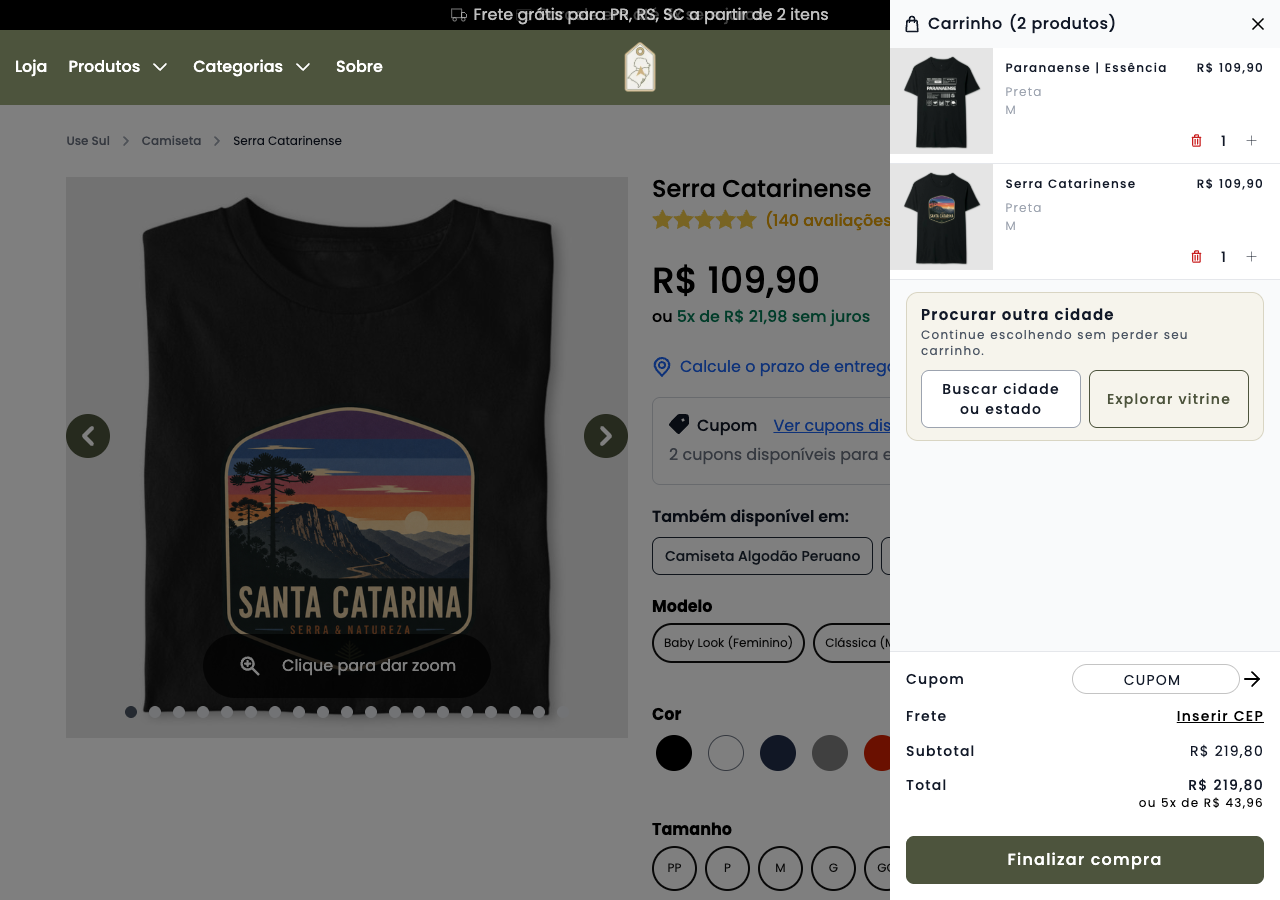
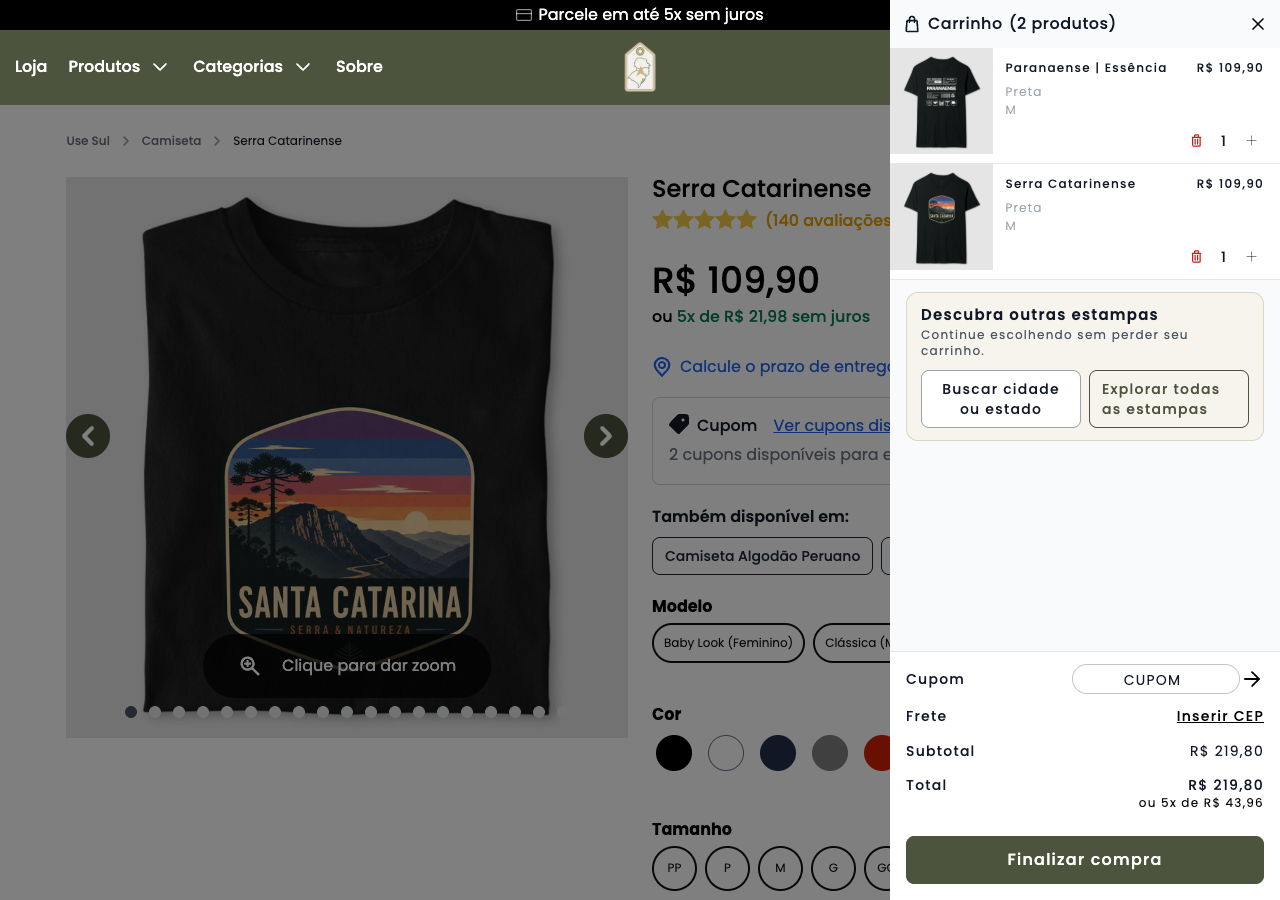
docs(product-discovery): record production rollout and network evidence
Worker 4a3c5d13 (loader 4.2, six features) live on the five pages;
live QA 40/40, real GA4 requests observed on both hosts without
cart_ref or origin markers, and the current rollback commands.

Changed region(s): [[0.3438, 0.0, 0.6562, 0.0311], [0.8438, 0.4044, 0.9688, 0.4667], [0.7188, 0.3422, 0.9062, 0.3733]]

diff --git a/docs/product-discovery.md b/docs/product-discovery.md
@@ -1,6 +1,6 @@
 # Descoberta na página de produto + revisão de comunicação (Fase 6)
 
-Data: 2026-09-24. Estado: **implementado, testado em local (Worker+KV locais, páginas REAIS da INK) e commitado; NÃO publicado.** Produção continua no Worker `81ce3c6f-47f4-408f-a4f3-e168dc99d395` (loader 4.1, cinco features, cinco caminhos). Loader novo: **4.2**. Contexto/eventos anteriores: [`expansao-cinco-produtos-analytics.md`](expansao-cinco-produtos-analytics.md).
+Data: 2026-09-24. Estado: **EM PRODUÇÃO nas cinco páginas** (seção 6). Worker ativo `4a3c5d13-632e-4fed-b6b8-028c0c40595d` (loader **4.2**, seis features, cinco caminhos exatos, `CART_REFS`); storefront `main` com o enum `ink_product_detail`. Versão estável anterior: `5790535f-b7f4-439e-beac-1a8ee257b050` (passo A, bloco desligado) e `81ce3c6f-47f4-408f-a4f3-e168dc99d395` (loader 4.1). Contexto/eventos anteriores: [`expansao-cinco-produtos-analytics.md`](expansao-cinco-produtos-analytics.md).
 
 ## 1. Comunicação (todas as superfícies)
 
@@ -55,7 +55,7 @@ Um evento novo de intenção, INK-side: **`origens_discovery_search_open`** (toq
 Overflow: em 320 (e 390 na 1ª visita) a **própria página da INK** já transborda na horizontal (`overflowWithout: true` com o bloco oculto); o QA compara com e sem o bloco e nenhum overflow é atribuível a ele.
 Capturas: `docs/evidence/product-discovery/` (`produto-*-{1280,390,320}-fechado.png`, `produto-paranaense-{1280,390,320}-busca-aberta.png`) e os drawers com o texto novo em `docs/evidence/expansao-5/drawer-*`.
 
-## 5. Publicação e rollback (a executar com autorização; nada foi publicado)
+## 5. Publicação e rollback (executado; mantido como referência)
 
 Versão estável a preservar no rollback: **`81ce3c6f-47f4-408f-a4f3-e168dc99d395`** (loader 4.1, cinco features, cinco caminhos, `CART_REFS`). Não usar deploy sem `--var` (desliga o piloto).
 
@@ -68,3 +68,15 @@ Versão estável a preservar no rollback: **`81ce3c6f-47f4-408f-a4f3-e168dc99d39
    ```
 3. **Worker, passo B (liga o bloco):** o mesmo comando com `WIDGET_FEATURES:return-link,post-add-discovery,city-search,cart-discovery,cart-mirror,product-discovery`. Health deve listar as seis; `node scripts/qa-expansao.mjs --live` (36 checagens + ida e volta pelo storefront).
 4. **Rollback:** (a) só o bloco: repetir o passo A (tira `product-discovery`, mantém as outras cinco); (b) tudo: `npx wrangler rollback 81ce3c6f-47f4-408f-a4f3-e168dc99d395 --name use-sul-widget -m "rollback fase-6"` (volta também a comunicação antiga). Confirmar health e smoke depois. Nunca rollback para a versão de um produto só.
+
+## 6. Produção (2026-09-24)
+
+**Sequência real:** storefront `12bca55` (PR → `main`, Railway; o bundle publicado passou a conter `ink_product_detail`) → Worker **passo A** `5790535f` (loader 4.2, bloco OFF; smoke: health `4.2`, 5 páginas com 1 loader e link antigo, `PRODUCT = false`, 5 produtos externos reais 200 sem loader, `/usesul`, `/usesul/products` sem loader, checkout 302, busca e `cart-ref` respondendo) → Worker **passo B** `4a3c5d13` (health: `version 4.2`, `allowlist_size 5`, seis features, `features_status ok`).
+
+**QA ao vivo** (`scripts/qa-expansao.mjs --live`, sessão anônima descartável, tags de analytics da INK bloqueadas, sem finalizar pedido): **40/40**. Cinco páginas × 1280/390/320×640 com 1 loader 4.2, seis features, **1 bloco e nenhum link antigo**, CTA/sticky nativos sem cobertura nossa; busca aberta pelo gateway real (≤4 resultados); destino `/sul` com as categorias; jornada de dois produtos, espelho, retorno pelo drawer nativo; 3+ peças com `Finalizar compra` visível em 1280/390/320×640. Capturas: `docs/evidence/product-discovery/live-*`.
+
+**Eventos observados no Network real** (uma visita de teste, `utm_source=qa`, propriedade `G-8GYTEJ1F77`; só o GA4 liberado — GTM, Meta, TikTok, Ads e New Relic bloqueados; cookies aceitos na INK e consentimento aceito no storefront): na INK `origens_discovery_search_open` e `origens_explore_storefront_click` (ambos `entry_point=ink_product_detail`, `product_slug=paranaense-essencia`); no storefront `origens_storefront_arrived` (`ink_product_detail`, mesmo slug) com `dl=https://useorigens.com.br/sul` e `dr=https://www.usesul.com.br/`. **Nenhum request GA contém `cart_ref`, `origens_src` ou `origens_p`.** (Junto vieram os hits normais da própria INK — `page_view`, `view_item` nas duas propriedades dela — e do storefront.)
+
+**Ainda NÃO confirmado no painel do GA4:** não há acesso ao Realtime/DebugView; evidência em Network não equivale a confirmação no painel. Dimensões `entry_point`, `product_slug`, `cart_items_bucket`, `mirror_age_bucket` e a redação de `cart_ref` ("Encobrir dados" no fluxo) dependem do proprietário. Vale o gate do aviso de cookies da INK (as medições do lado da INK só saem depois do aceite).
+
+**Rollback vigente:** só o bloco → repetir o passo A (`WIDGET_FEATURES` com as cinco features, sem `product-discovery`); tudo → `npx wrangler rollback 81ce3c6f-47f4-408f-a4f3-e168dc99d395 --name use-sul-widget -m "rollback fase-6"` (volta também a comunicação antiga). Confirmar health e smoke depois. Nunca a versão de um produto só.
